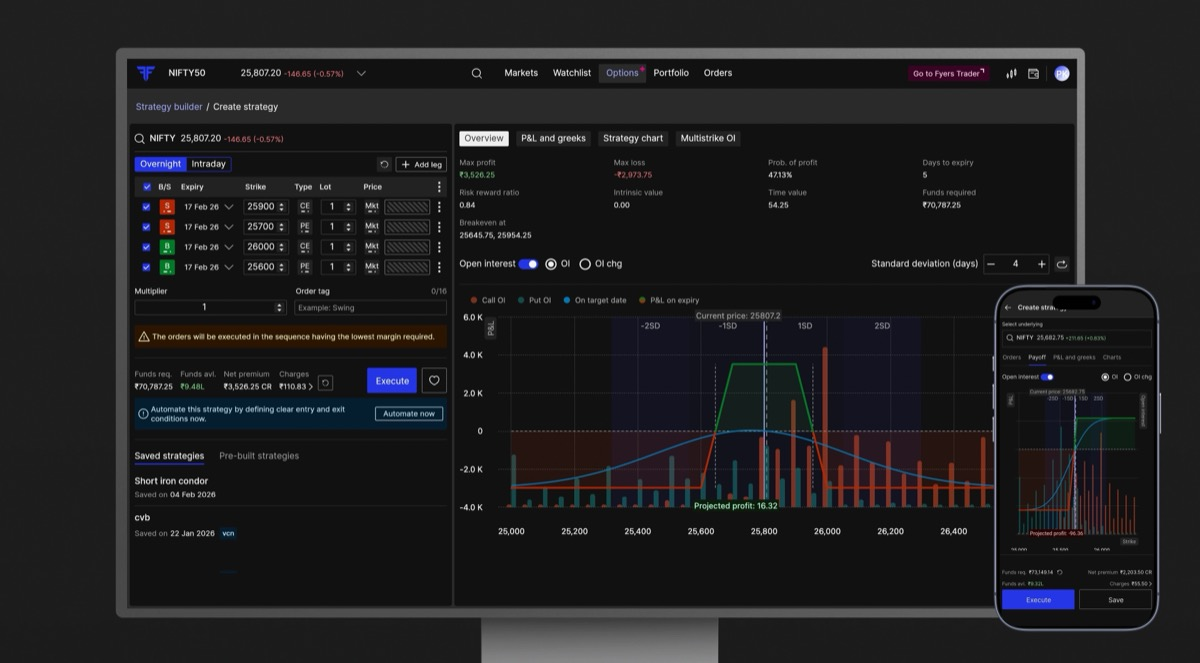
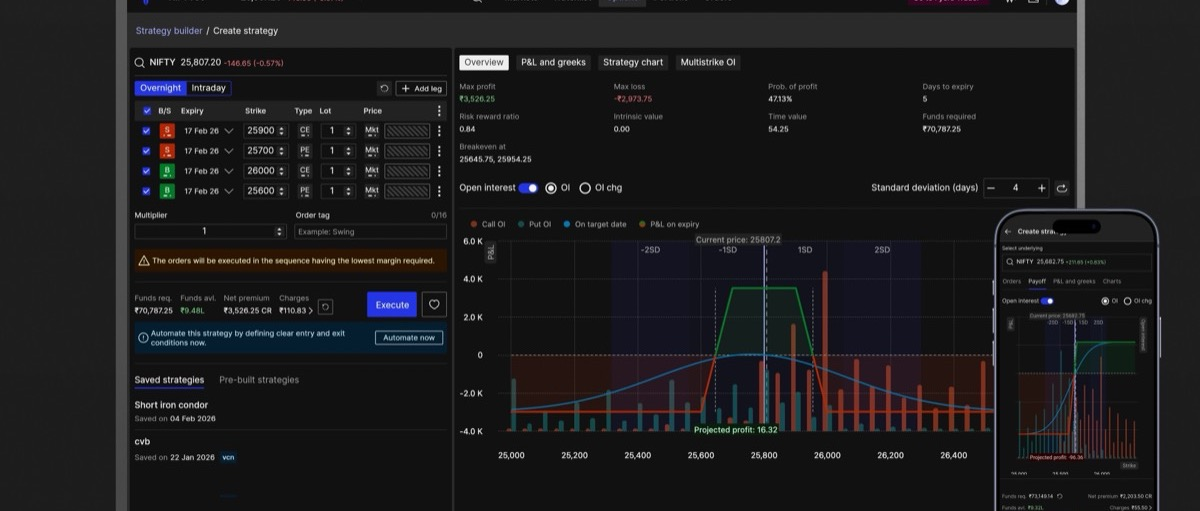
Show 3 Fyers screenshots: strategy builder, backtest, automation
Cropped the strategy-builder shot to match the other two images' aspect ratio so the row stays visually consistent. This section highlights more of the actual system complexity (backtesting, automation workflows) rather than product marketing shots.

diff --git a/README.md b/README.md
@@ -10,8 +10,9 @@ I'm a **Technical Lead Engineer at [FYERS Securities](https://fyers.in/)**, lead
 
 <table>
   <tr>
-    <td width="50%"><img src="assets/screenshots/fyers-1.jpg" width="100%" /></td>
-    <td width="50%"><img src="assets/screenshots/fyers-2.jpg" width="100%" /></td>
+    <td width="33%"><img src="assets/screenshots/fyers-1.jpg" width="100%" /></td>
+    <td width="33%"><img src="assets/screenshots/fyers-2.jpg" width="100%" /></td>
+    <td width="33%"><img src="assets/screenshots/fyers-3.jpg" width="100%" /></td>
   </tr>
 </table>
 
